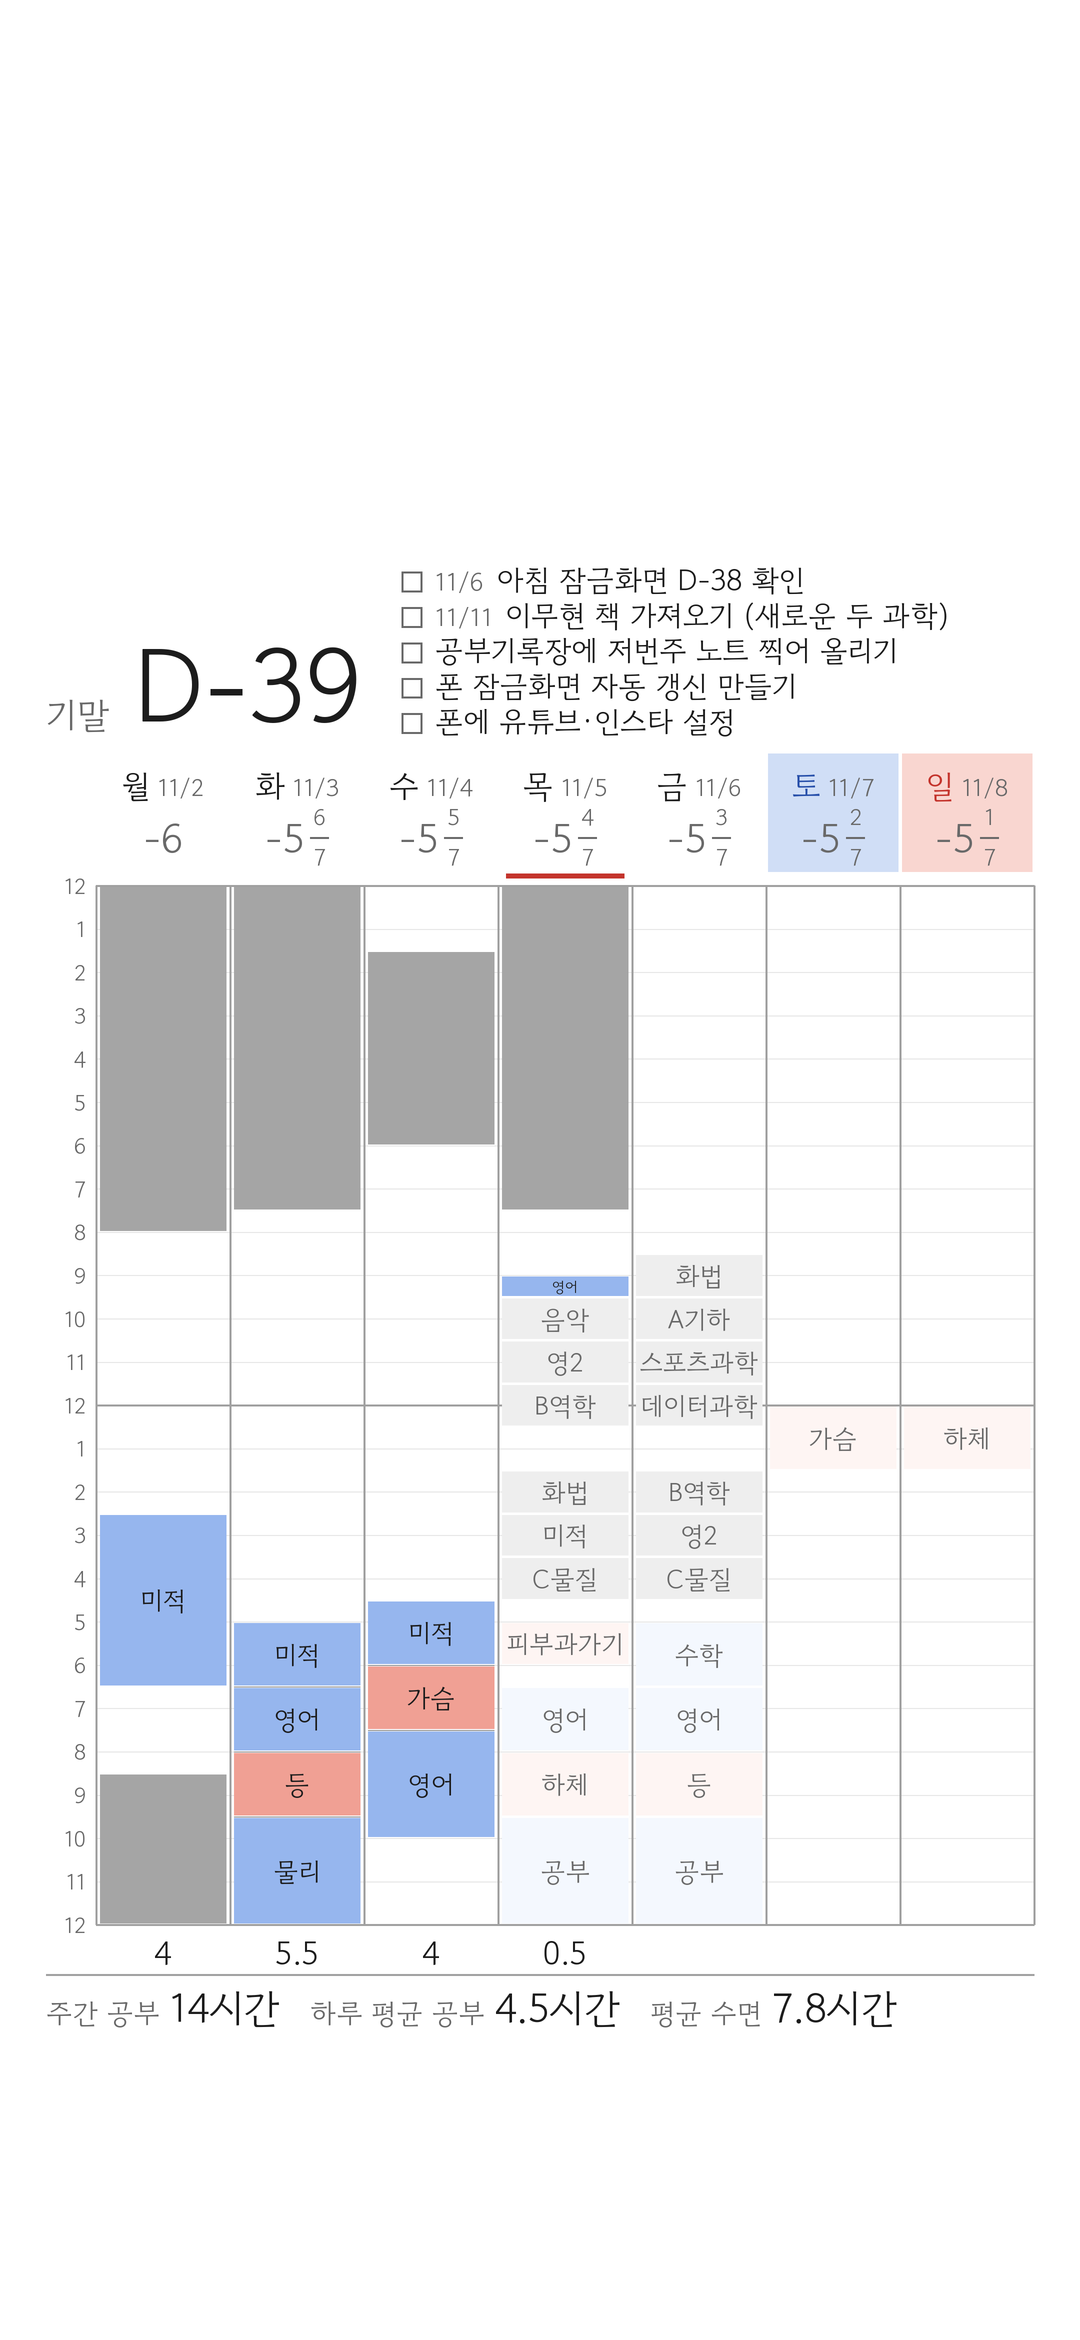
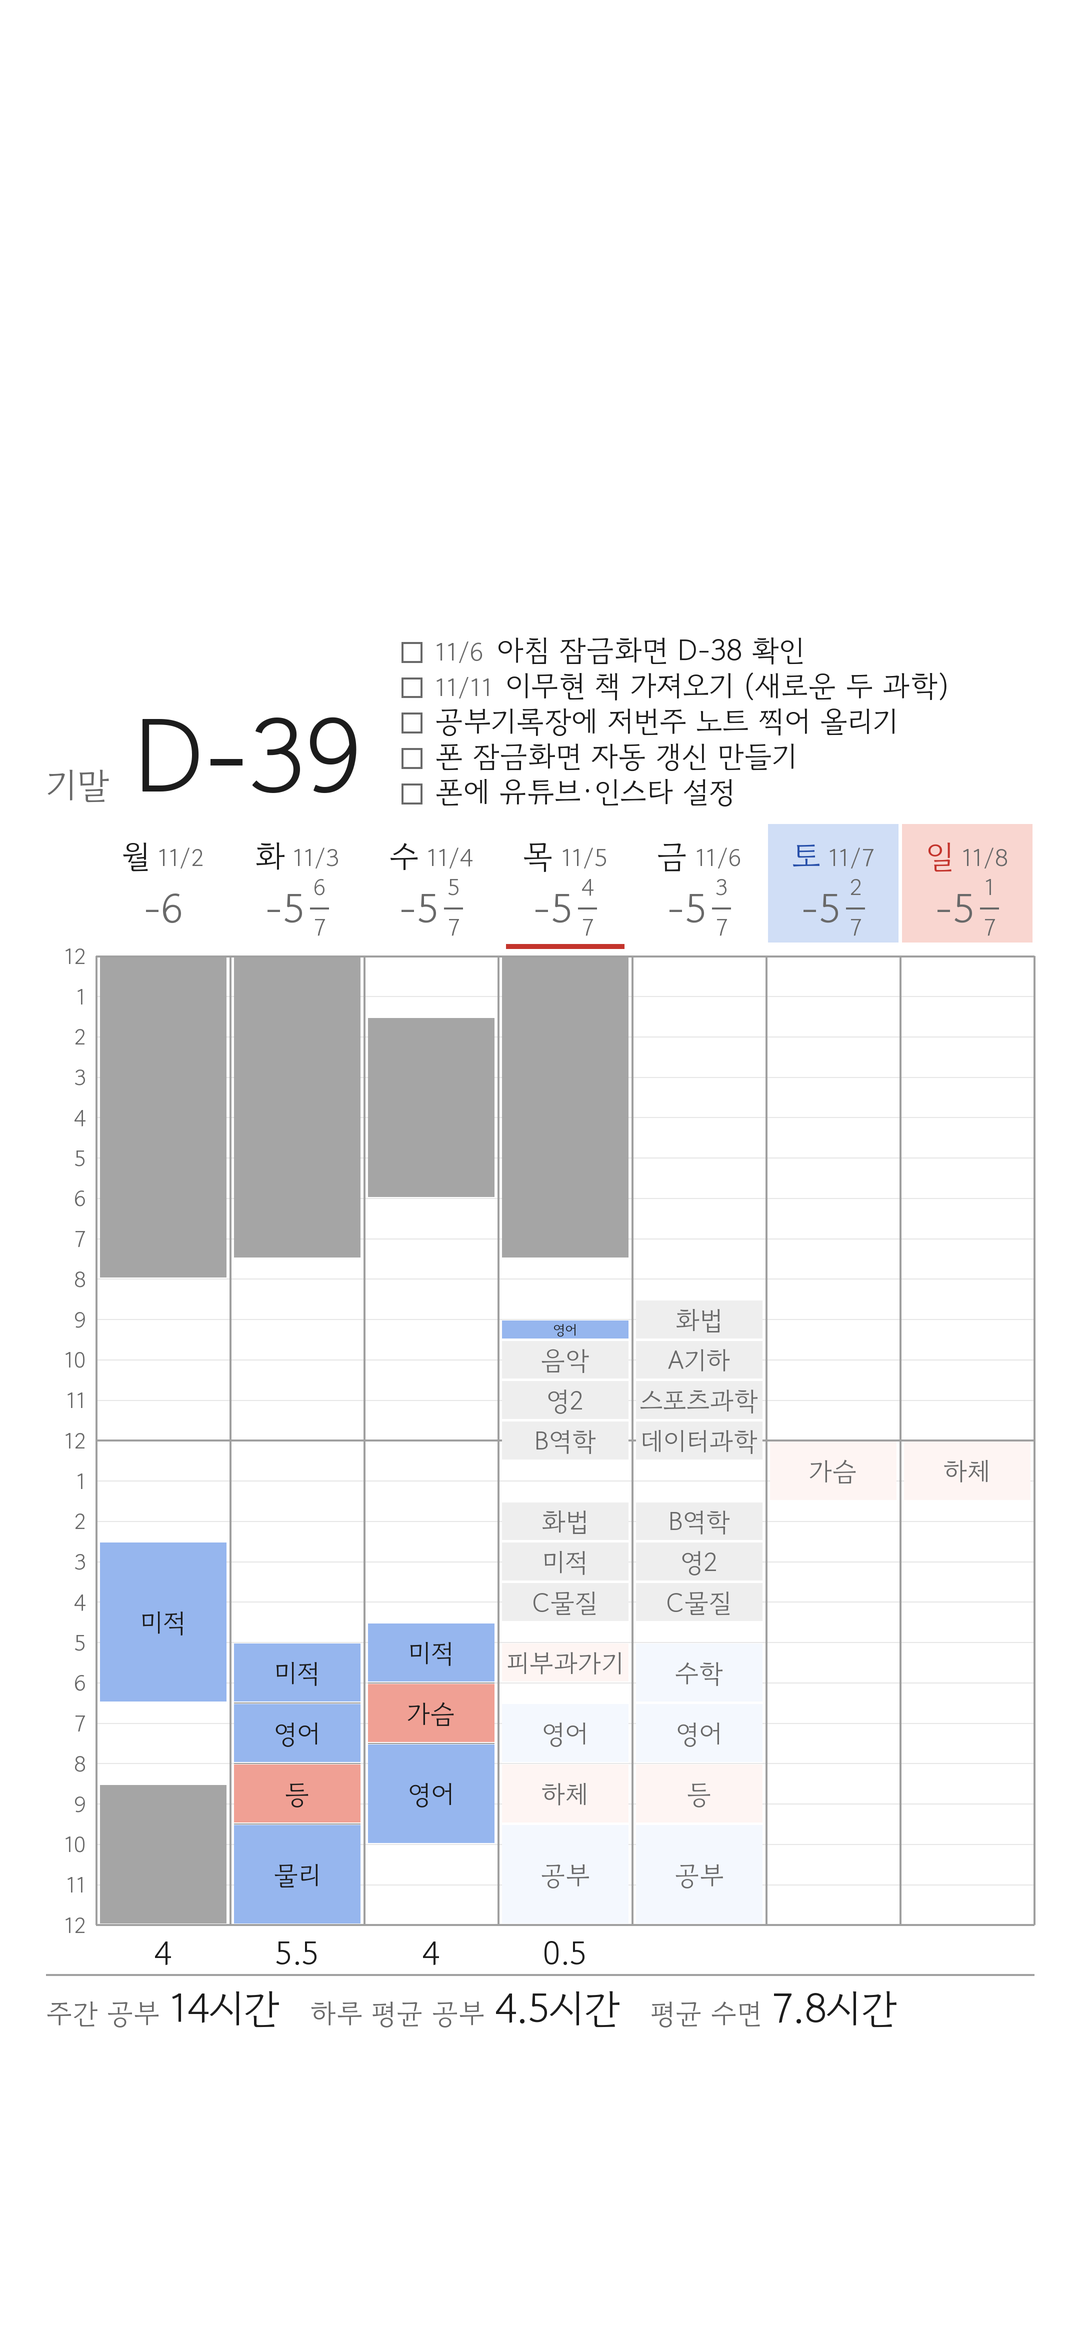
잠금화면: 전체를 조금 아래로 (TOP_EMPTY 0.27→0.30)
Claude-Session: https://claude.ai/code/session_016sgH3UhdRY5iMHkm4MKa7V

diff --git a/make.py b/make.py
@@ -32,7 +32,7 @@ SLEEP_FILL = (165, 165, 165)   # 수면
 BLUE_PLAN = (244, 248, 254)    # 해야 할 공부
 RED_PLAN = (254, 245, 243)     # 해야 할 운동·일정
 SCHOOL_PLAN = (238, 238, 238)  # 학교 수업
-TOP_EMPTY = 0.27      # 위쪽 시계 자리
+TOP_EMPTY = 0.30      # 위쪽 시계 자리
 BOTTOM_EMPTY = 0.115  # 아래쪽 잠금화면 단축 아이콘 자리
 BACKDROP = None       # 바탕 무늬를 그리는 함수(선택)
 SS = 2                # 2배로 그린 뒤 줄여 선을 매끄럽게 한다
